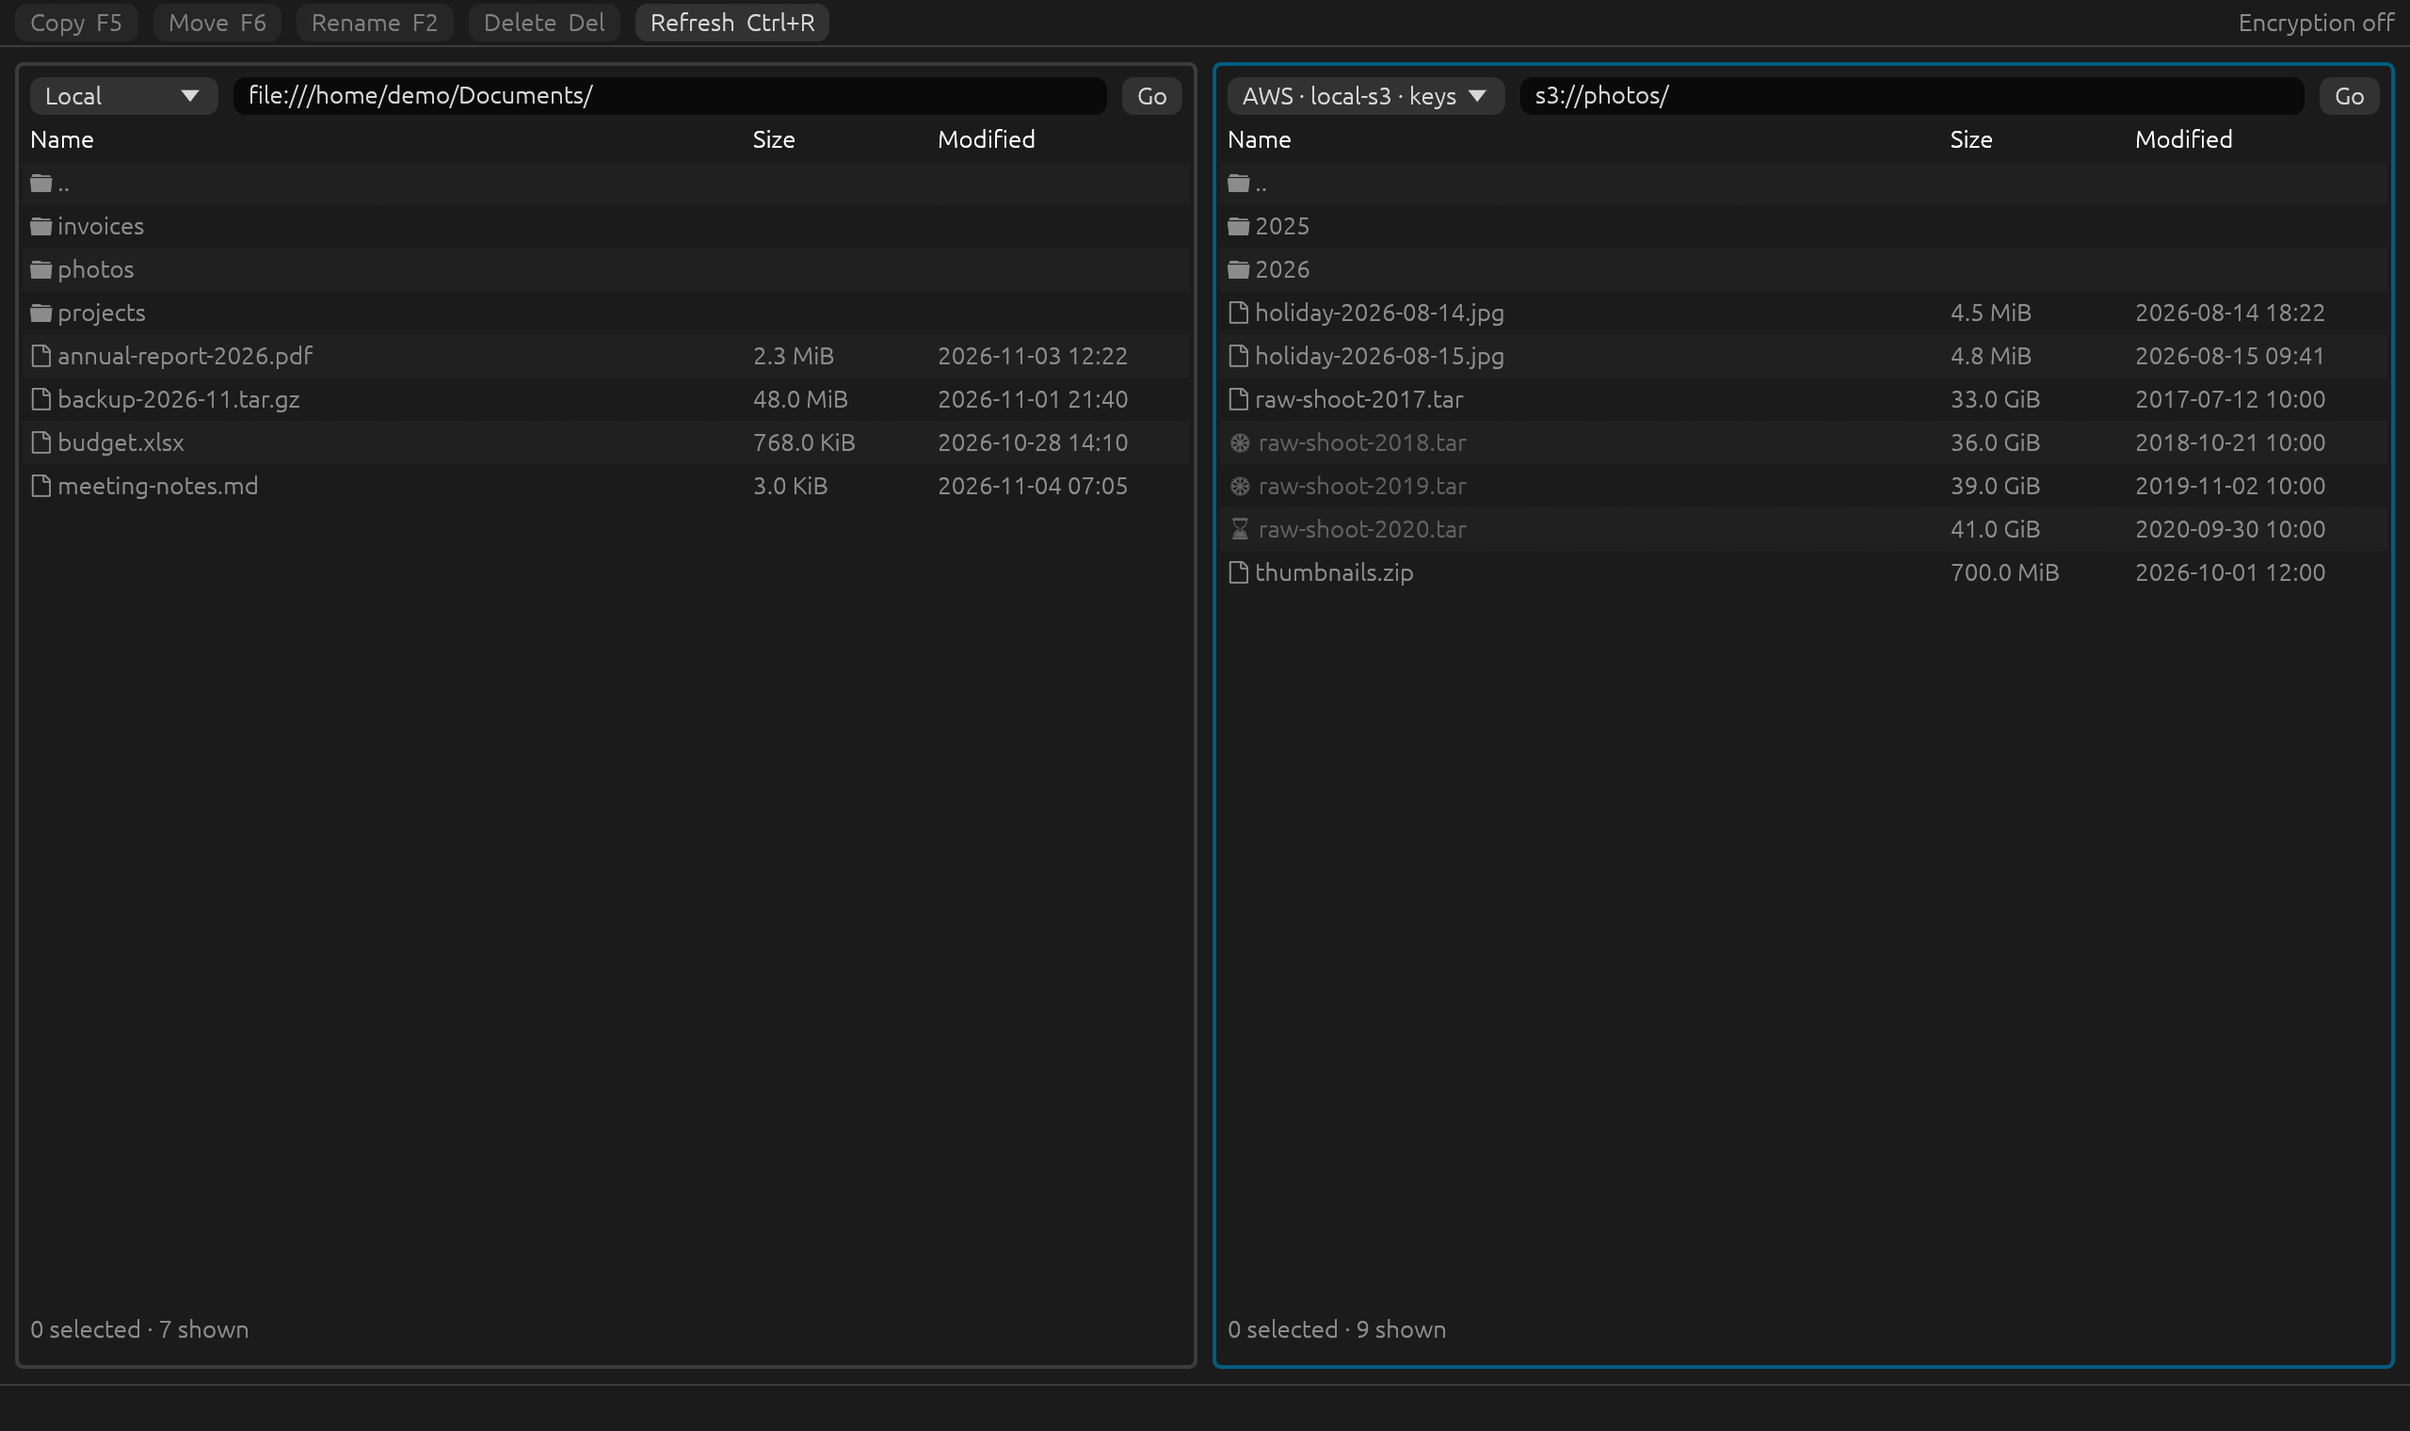
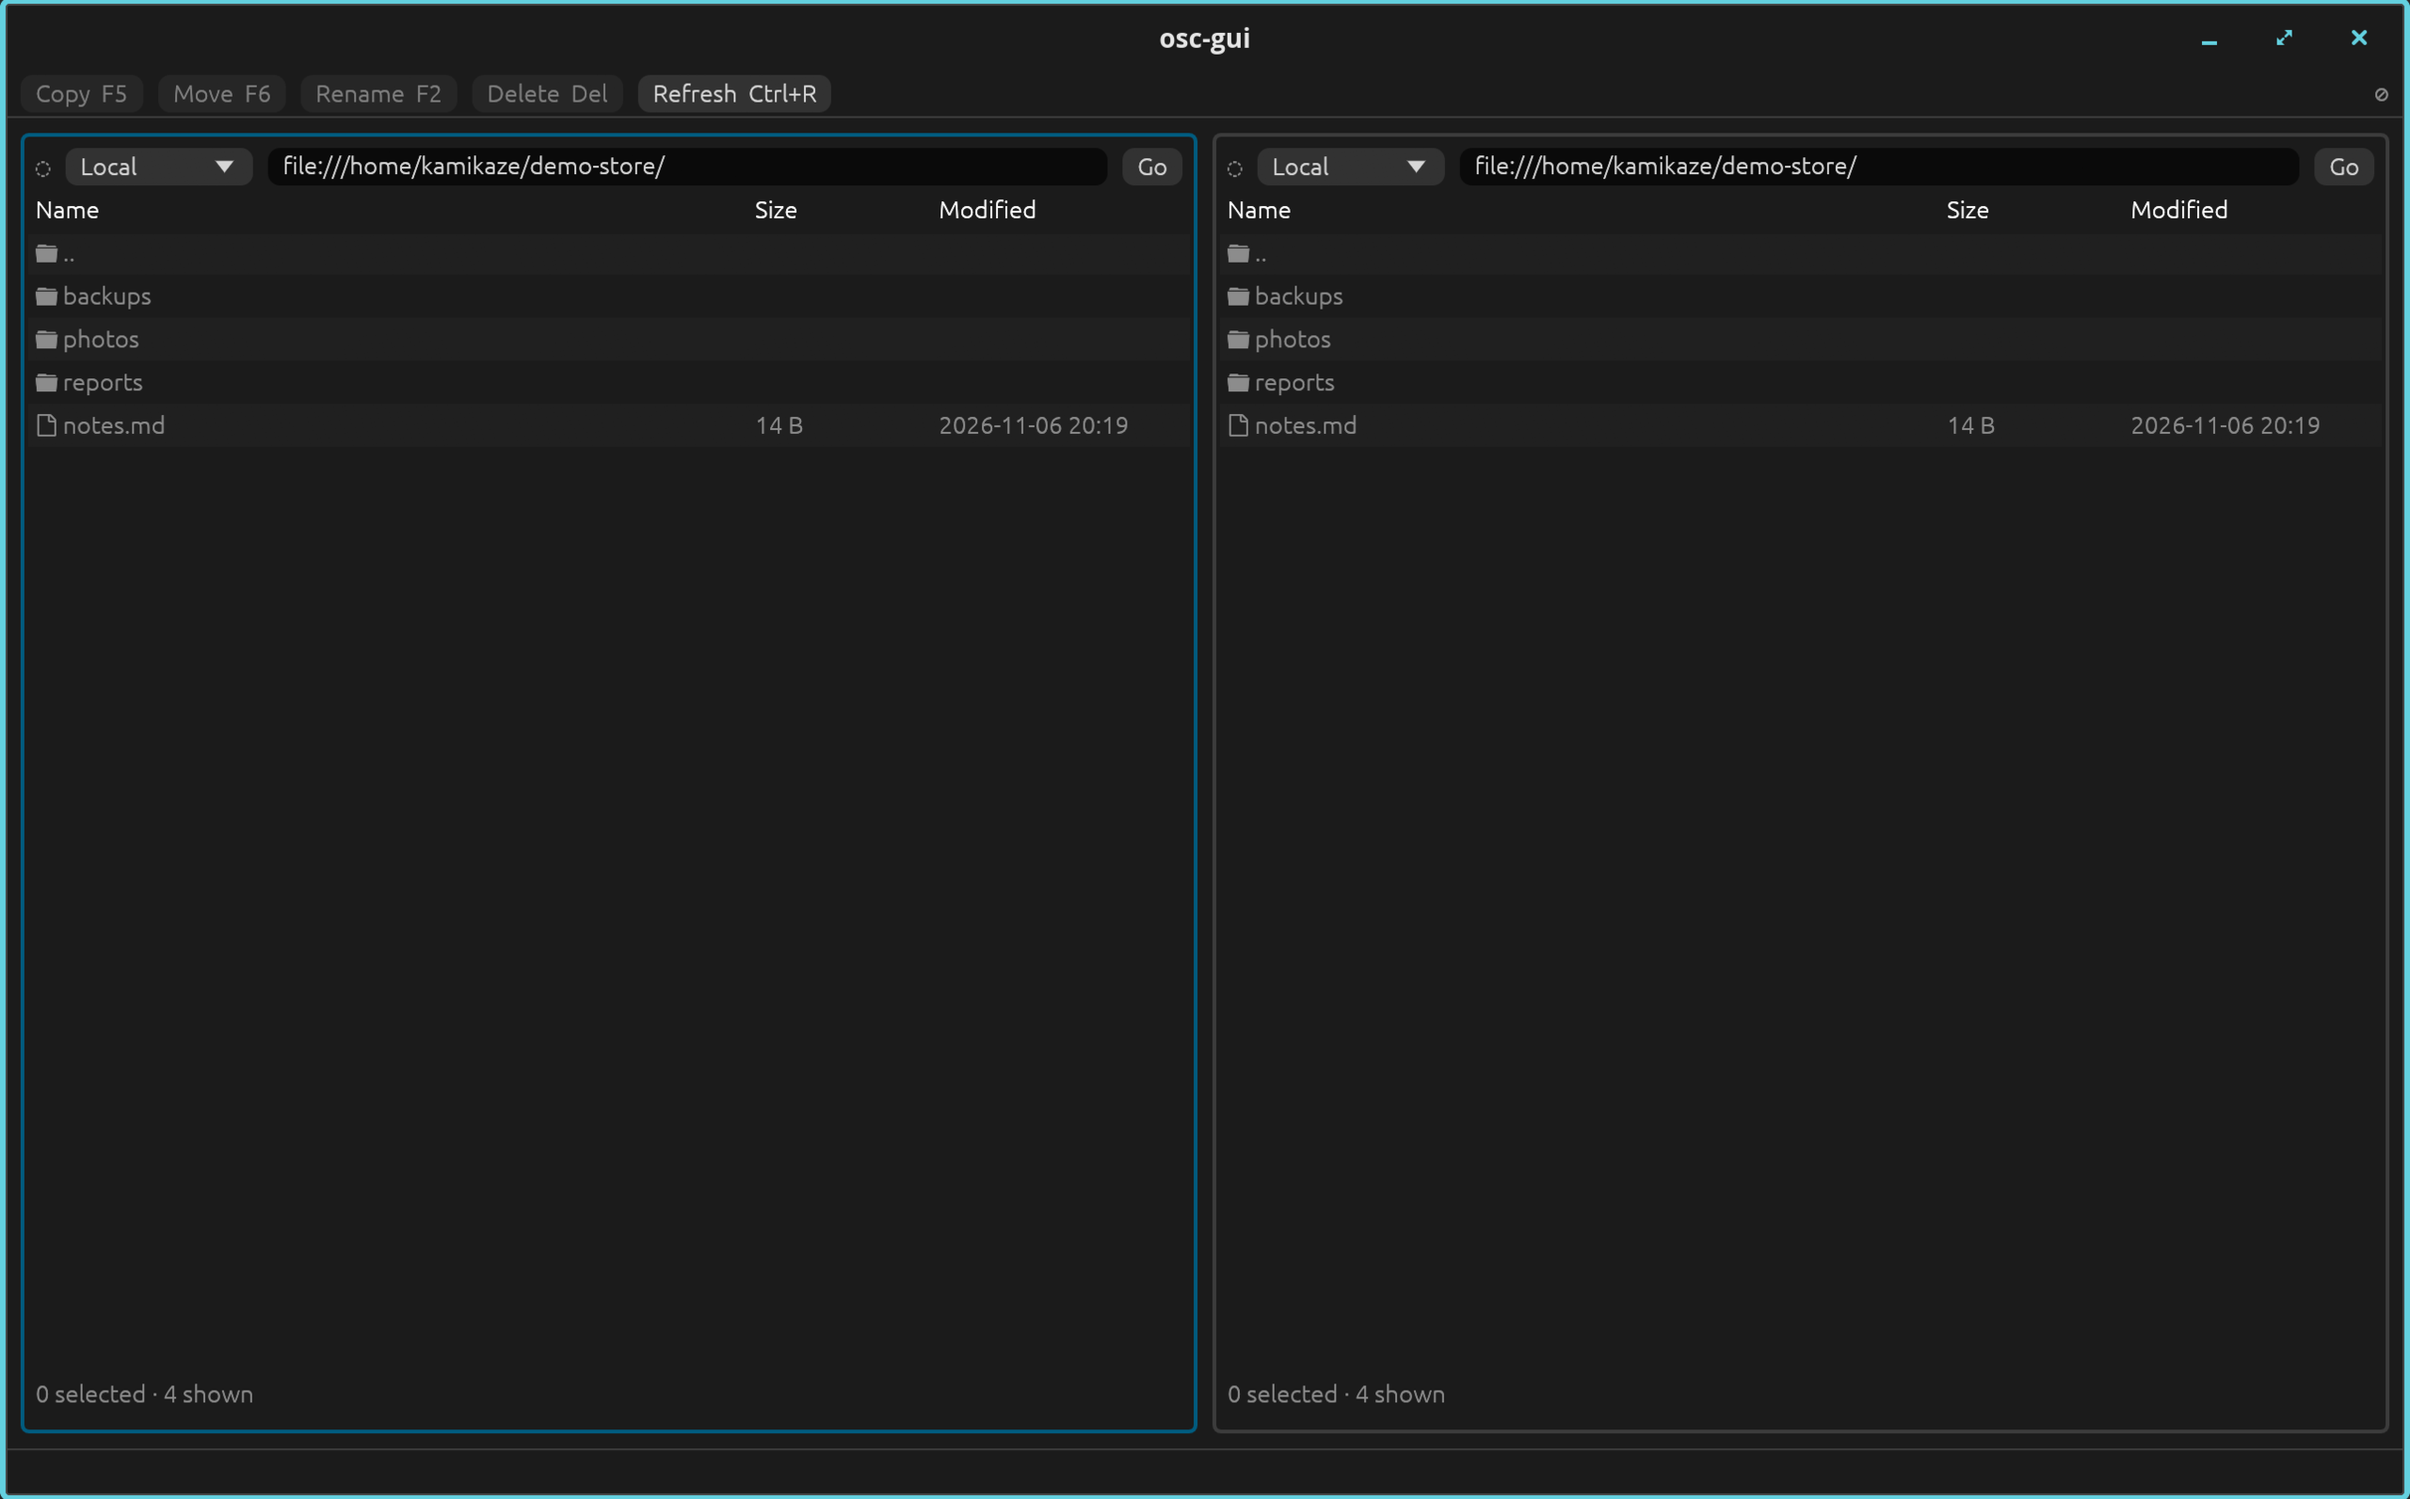
update screenshot

diff --git a/site/index.html b/site/index.html
@@ -11,7 +11,7 @@
 <meta property="og:description" content="Copy, move, stream and sign objects across S3, Google Cloud Storage, Azure Blob Storage and local disks, with optional client-side encryption.">
 <meta property="og:url" content="https://bixority.github.io/object-storage-client/">
 <meta property="og:image" content="https://bixority.github.io/object-storage-client/images/osc-gui.png">
-<meta property="og:image:alt" content="osc-gui with Local in the left panel and an S3 bucket in the right panel">
+<meta property="og:image:alt" content="osc-gui with two panels side by side, each with a connection selector">
 <meta name="twitter:card" content="summary_large_image">
 <meta name="twitter:title" content="Object Storage Client: one URL for every object store">
 <meta name="twitter:description" content="Copy, move, stream and sign objects across S3, Google Cloud Storage, Azure Blob Storage and local disks, with optional client-side encryption.">
@@ -276,7 +276,7 @@
 
   <figure class="shot">
     <div class="shot-frame">
-      <img src="images/osc-gui.png" alt="osc-gui with Local in the left panel and an S3 bucket in the right panel, archived objects greyed out">
+      <img src="images/osc-gui.png" alt="osc-gui with two panels side by side, each with a connection selector, an address bar and a file list">
     </div>
     <figcaption>Two panels, any two connections. Copy from a bucket to a laptop folder, or across clouds, with the
       key and TLS state of each panel in view. Archived objects are greyed out until they are restored.</figcaption>

diff --git a/README.md b/README.md
@@ -44,7 +44,7 @@ delete objects and whole folders within a panel or between the two, also across
 accounts and providers. It finds the connections already set up on the machine
 and takes the same encryption options as `osc`.
 
-![osc-gui with Local in the left panel and an S3 bucket in the right panel, where archived (❄) and restoring (⌛) objects are greyed out](docs/images/osc-gui.png)
+![osc-gui with two panels side by side, each with a connection selector, an address bar and a file list](docs/images/osc-gui.png)
 
 ### Install
 
